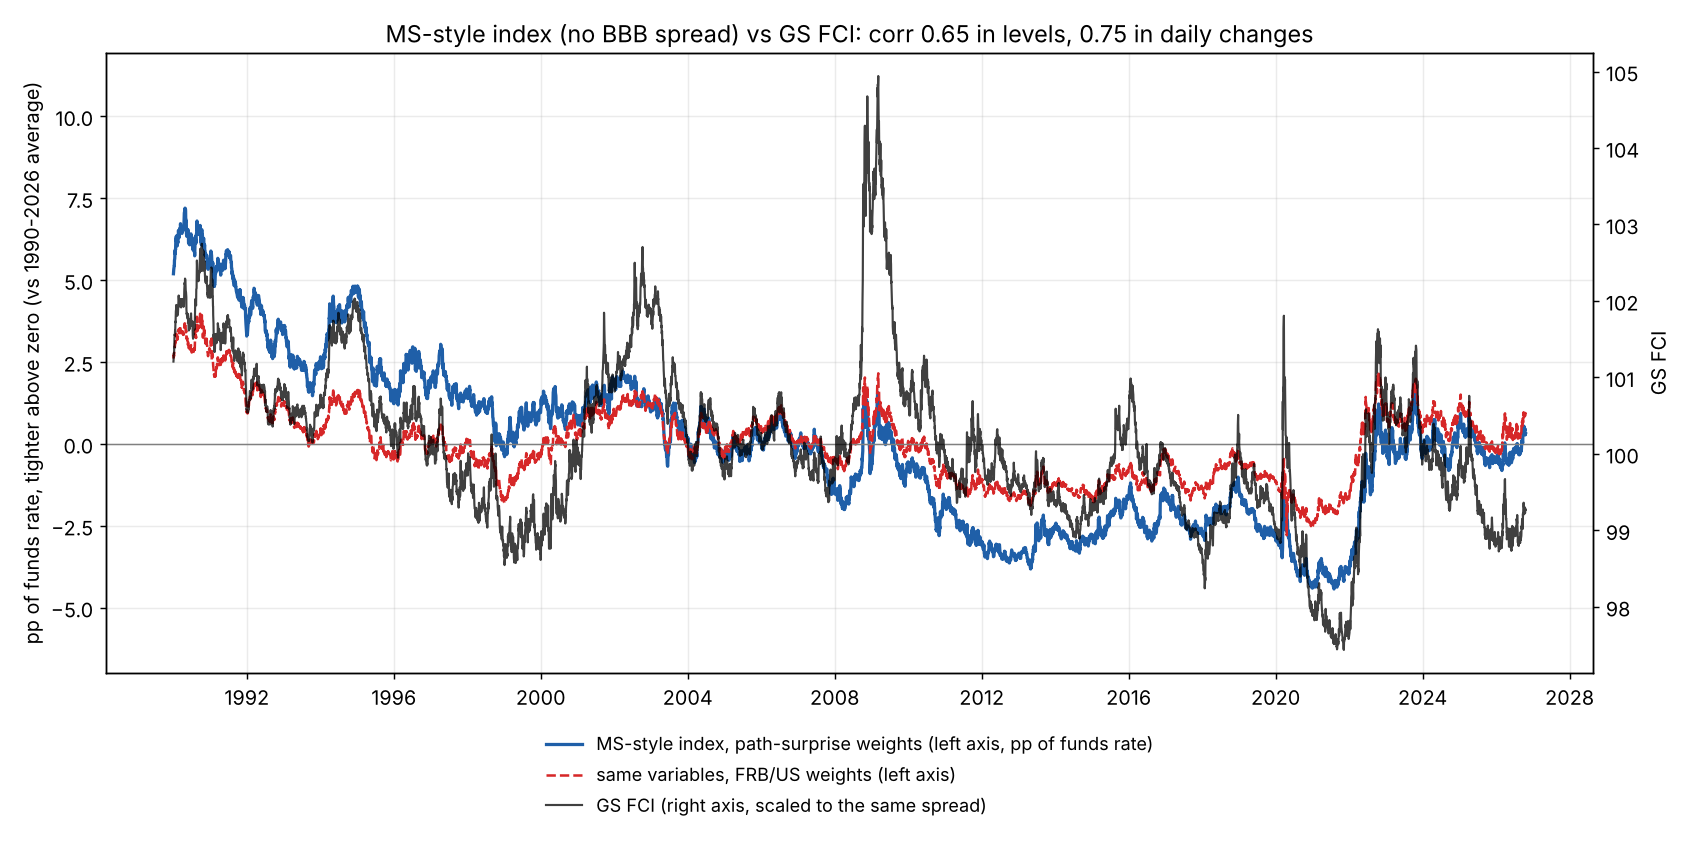
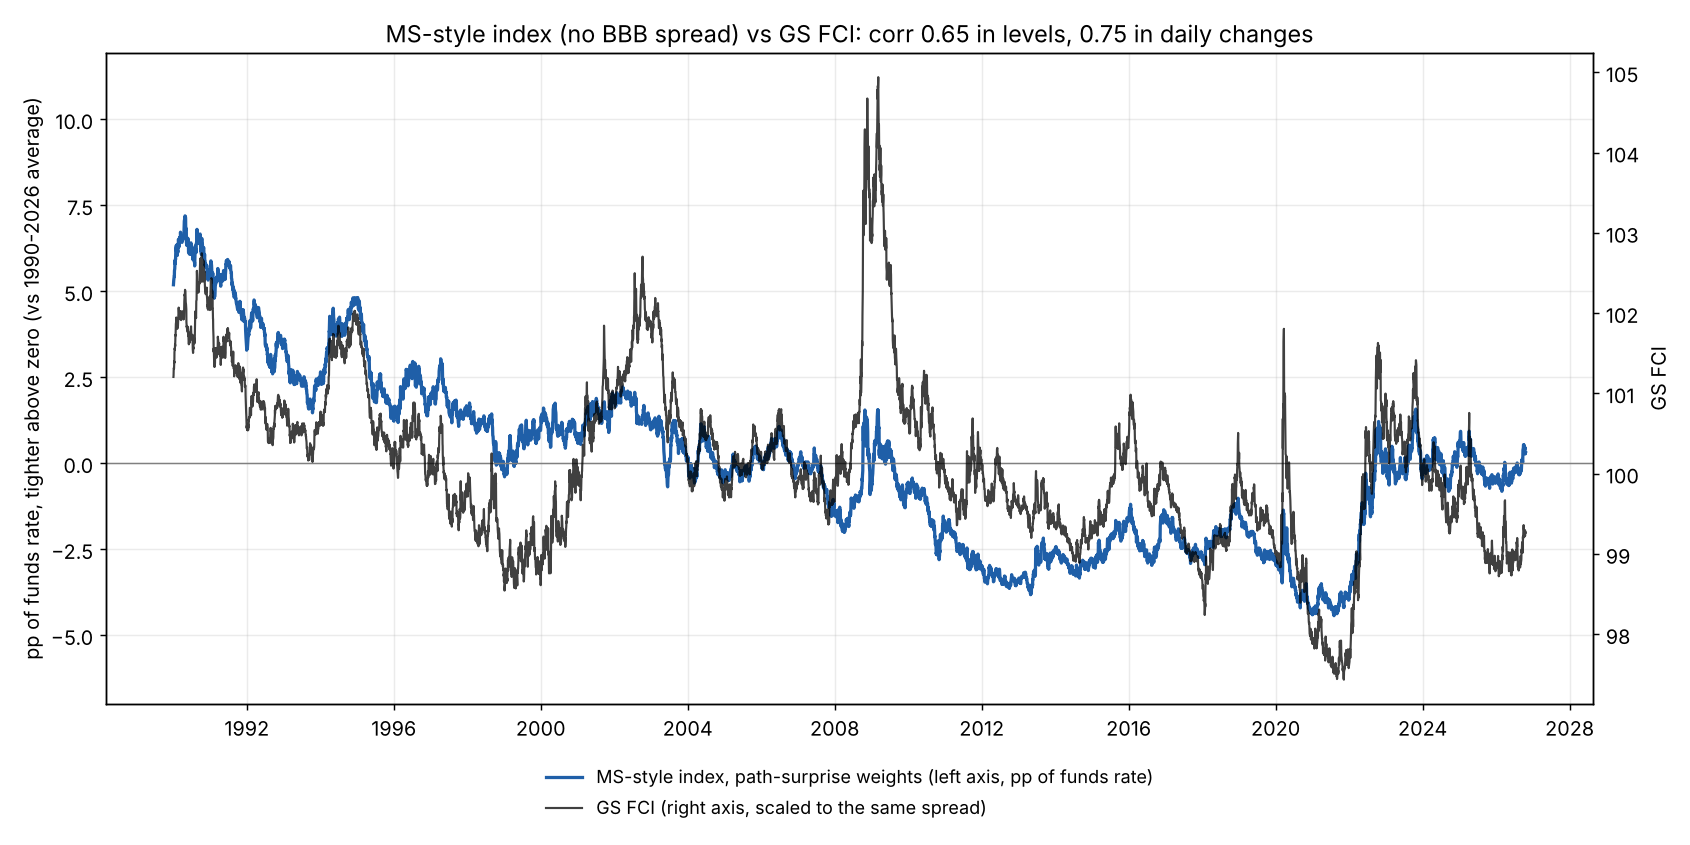
Charts: two lines each (index and GS FCI)
Claude-Session: https://claude.ai/code/session_019kTrQ64J9YbGMCvioBoMNo

diff --git a/experimental/path_fci/path_fci_charts.py b/experimental/path_fci/path_fci_charts.py
@@ -4,7 +4,7 @@ EXPERIMENTAL add-on (path_fci.py unchanged): two clean charts, one for the MS-st
 Path-surprise index = rescaled reverse-regression weights (path_fci_reverse_index.py), BBB spread excluded:
     MS-style: 10-year, ln CAPE, real dollar, real oil        GS-style: fed funds, 10-year, ln CAPE, dollar
 The right axis (GS FCI) is scaled so that its standard deviation and mean line up with the index on the left (same zero line, same spread), so the two
-move together on the page exactly as far as their correlation says. MS chart also shows the same variables with FRB/US weights.
+move together on the page exactly as far as their correlation says.
 
 Usage:  python experimental/path_fci/path_fci_charts.py [--sample full|nonzlb]
 Outputs: path_fci_chart_ms_<sample>.png, path_fci_chart_gs_<sample>.png
@@ -45,14 +45,11 @@ def main():
               f"2012-12 {idx.loc[:'2012-12-31'].iloc[-1]:+.1f}, 2021-12 {idx.loc[:'2021-12-31'].iloc[-1]:+.1f}, 2009-03 {idx.loc[:'2009-03-31'].iloc[-1]:+.1f}")
         fig, ax = plt.subplots(figsize=(13, 6.5))
         ax.plot(idx.index, idx, color="#1f5fa8", lw=1.8, label=f"{key.upper()}-style index, path-surprise weights (left axis, pp of funds rate)")
-        if key == "ms":
-            f = lev(fr, names)
-            ax.plot(f.index, f, color="#d62728", lw=1.4, ls="--", label="same variables, FRB/US weights (left axis)")
         ax.axhline(0, color="gray", lw=0.8)
         ax.set_ylabel("pp of funds rate, tighter above zero (vs 1990-2026 average)", fontsize=11)
         k = gs.std() / idx.std()
         gl = (gs - gs.mean()) / k                       # GS FCI in left-axis units
-        allv = pd.concat([idx, gl] + ([f] if key == "ms" else []))
+        allv = pd.concat([idx, gl])
         pad = 0.04 * (allv.max() - allv.min())
         lo, hi = allv.min() - pad, allv.max() + pad
         ax.set_ylim(lo, hi)
